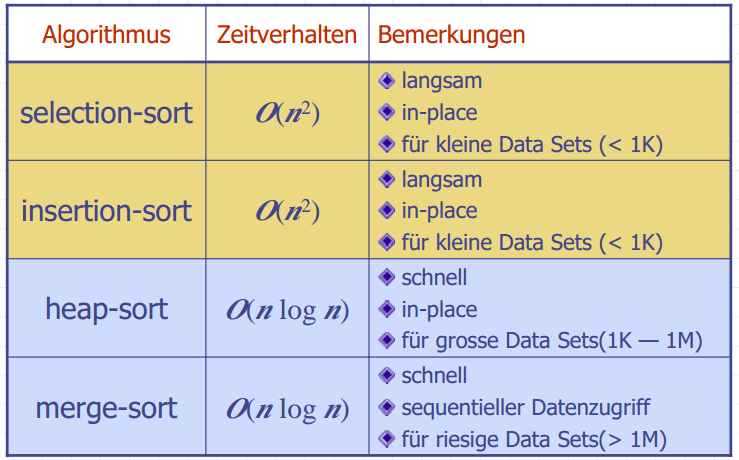
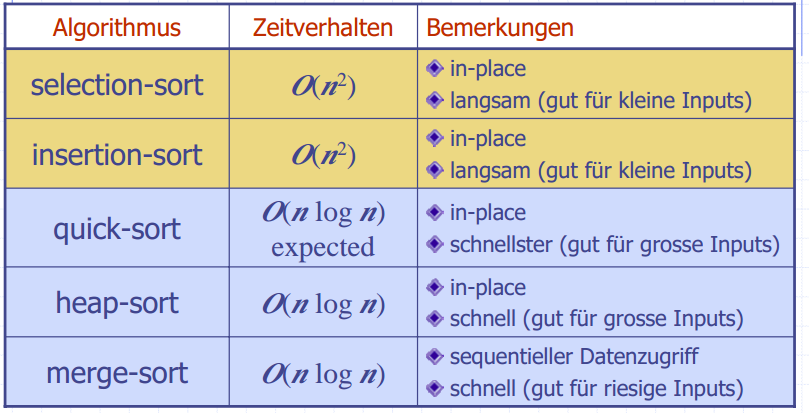
updates

diff --git a/docs/hs16/cpi.md b/docs/hs16/cpi.md
@@ -186,3 +186,75 @@ foo(g);
         - `try {...} catch (type const &e) {...}`
         - Catchen immer mit Referenz auf exception ("Throw by value, catch by const ref")
         - Catch all: `catch(...)` <- Mit 3 Punkten!
+        - In `stdexcept` sind exception types, z.B. `std::logic_error` und `std::runtime_error`
+        - Message in Konstruktor mitgeben, im catch mit `e.what()` aufrufen
+        - Testen in CUTE mit `ASSERT_THROWS(<code>, <expected exception type>)`
+```c++
+try {
+    // throwing code
+    throw <value>;
+} catch (<type> const & e) {
+    // Exception handling
+}
+```
+
+---
+## Vorlesung 5 - Classes and Enums
+- Eine gute Klasse hat eine Invariant, eine Garantie über den Status der Klasse
+- Klasse wird normalerweise im Header definiert mit `Class <name> {...};`
+    - Ein Verwender der Klasse muss wissen, wie der Speicher der Klasse aufgebaut ist, darum ist die Klasse mit Members im Header definiert
+    - Einzelne Sektionen `public:`, `private:`, `protected:`
+    - Bei Klassen sind funktionen implizit private, bei structs public
+- Konstruktor: `Class(value1, value2) : member{value1}, member2{value2}`
+    - In Reihenfolge der Member-Deklaration
+- Kopier-Konstruktor: Wird dann ausgeführt, wenn einer instanzierung der eigene Typ als argument mitgegeben wird: `Date d2{d1}`
+    - Ist implizit verfügbar: `Date(Date const &)`
+- Move-Konstruktor ebenfalls implizit vorhanden
+- `explicit Date(std::string const &)`, um dem Konstruktor einen anderen Datentyp mitzugeben, um sie in den Typ zu verwandeln
+- Destruktor: `~Date();` ist implizit vorhanden, sollte selten explizit implementiert werden. Wird beim Aufräumen aufgerufen
+- Vererbung mit `class Sub : public Base {...};` angeben
+    - Folie 19: onyInBase ist private
+    - Wenn `private` geerbt wird, kann man in Sub auf die private Member von Base zugreifen, aber nicht ausserhalb von Sub
+    - Mehrfachvererbung möglich
+- Implementierung: Jeweils `<type>::<function> {...}`
+- Statische Funktionen aufrufen mit `type::function`
+- `const` Funktionen können keine Klassen-Felder verändern
+- Im Konstruktor prüfen, ob die Daten (z.B. das Datum) gültig ist
+    - Establishes invariant
+- Konstruktoren delegieren: `Date::Date() : Date{1980, 1, 1}` wie `this()` in Java
+- member-Funktionen darf invarianz nicht kaputt machen
+- Expliziter Zugriff auf Felder mit `this-><member>`
+- Static Functions brauchen keine static-Deklartion in der Implementierung
+    - Können nicht `const` sein
+- `static const`-Felder können direkt im Header initialisiert werden
+- Operator-Overloading
+    - `<returntype> operator<op> (<parameters>)`
+    - Ein Parameter für unäre Operatoren, zwei für binäre
+    - Ausnahme: inkrement, dekrement prefix nimmt zwei parameter, um prefix und suffix zu unterscheiden
+    - Wenn overloading im header-File implementiert wird, mit `inline` deklarieren
+    - Problem mit "free" Operator (ausserhalb der Klasse): Kein Zugriff auf private Members
+    - Alternative: Operator Overloading als Member in die Klasse hinein nehmen. Nur noch 1 Parameter für right-hand-side (linke Seite ist this-Objekt). Ist implizit `inline`
+    - `std::tie()` vergleicht komponentenweise zwei Elemente
+```c++
+bool Date::operator<(Date const & rhs) const {
+    return std::tie(year, month, day) <
+    std::tie(rhs.year, rhs.month, rhs.day);
+}
+```
+    - Mit boost kann man z.B. `<` implementieren, und bekommt dann `>, <= und >=` (Erben von `boost::less_than_comparable<myType>`)
+    - `<<` überschreiben für Ausgabe
+        - Problem: in Member-Funktion ist das linke Argument vorgegeben mit `this`, dann müsste der Stream rechts von `<<` sein
+        - Lösung: Hilfsfunktion `print()` in der Klasse, die von freier Funktion aufgerufen wird
+```c++
+class Date {
+    int year, month, day;
+public:
+    std::ostream & print(std::ostream & os) const {
+        os << year << "/" << month << "/" << day;
+        return os;
+    }
+};
+inline std::ostream & operator<<(std::ostream & os, Date const & date){
+    return date.print(os);
+}
+```

diff --git a/docs/hs16/ad2.md b/docs/hs16/ad2.md
@@ -129,7 +129,7 @@ $$\rightarrow h \in O(log(n))$$
 
 #### Performance
 - Splaying: \(O(h)\)
-    - Durchschnittlich \(O(\logn)\)
+    - Durchschnittlich \(O(logn)\)
     - Worst case ist Höhe h = n, d.h. \(O(n)\)
 - Oft besuchte Knoten kommen immer näher an die Root, d.h es wird schneller
 - Anwendung z.B. bei Suchmaschinen
@@ -166,3 +166,39 @@ $$\rightarrow h \in O(log(n))$$
     - in und out swappen
     - usw... Es wird immer verdoppelt
     - Quasi im rekurvis-Baum "Bottom up"
+
+---
+## Vorlesung 5 - Quick-Sort
+- Vergleich Insertion-Sort (\(O(n^2)\)) und Merge-Sort (\(O(n log n)): Bei \(2^{14}\) Elementen ist Merge-Sort 100x schneller, bei 1 Mio. Elementen ist es 6'400x schneller
+- Insertion Sort würde für 1 Mio. Elemente ca. 1h 47' benötigen, merge-Sort nur einige Sekunden
+
+### Quick-Sort
+- Partitionierung in 3 Mengen: Less, Equal und Greater mit einem Pivot x
+    - Jedes Element in die richtige Menge kopieren -> \(O(n)\)
+- Rekursiver Aufruf mit L und G
+- Zusammensetzen: L, E, G hintereinander wieder einfügen
+
+![Vergleich Sortieralgorithmen](img/quicksort_tree.png)
+
+- Wenn der Pivot immer das minimum oder maximum ist, gibt es einen einseitigen "tree", d.h Worst-Case ist \(O(n^2)\)
+- Der optimale Pivot wäre der mittlere Wert
+- Wenn die Daten normalverteilt sind, gibt es zu 50% "bad-calls" bei zufälliger Wahl des Pivots (1. und 4. Viertel)
+- Erwartet wird ein Baum mit Höhe \(log n\). Jedes Level benötigt \(O(n)\), also total \(O(n log n)\)
+- In-Place Quicksort
+    - Worst-Case: Wenn die Liste bereits sortiert ist
+
+### Sorting Lower Bound
+- Jede Permutation von Daten zeigt einen Pfad durch den Entscheidungsbaum
+- Das gibt n! Permutationen, also ist die Höhe des Baumes log(n!)
+$$n^n > n! > {\frac n2}^{\frac n2}$$
+- Die Untere Grenze für *Vergleichs*algorithmen ist \(O(n log(n))\)
+
+### Bucket-Sort
+- Eine Sequenz mit Key-Value-Paaren
+- Jedes Item in ein Array mit dem Key als Index kopieren
+    - Genauer ein Array von Listen, Elemente mit gleichem Key werden der Liste angehängt
+- Array durch iterieren und der Reihe nach ausgeben
+- Laufzeit: \(O(n + N)\), wobei N der grösstmögliche Wert der Keys ist
+    - Kein Widerspruch zu oben, weil Algorithmus nicht vergleichs-basiert ist
+- Eingeschränkt auf ganze, positive Zahlen
+- *Stabile* Sort-Eigenschaft: die relative Ordnung von Items mit gleichem Wert wird nicht verändert

diff --git a/docs/hs16/mste.md b/docs/hs16/mste.md
@@ -164,3 +164,47 @@ protected virtual void Dispose(bool disposing)
     }
 ```
     - So werden managed ressourcen von Dispose() aufgerufen, und unmanaged vom Finalize / Destruktor
+
+
+---
+## Vorlesung 5 - Delegates & Events
+### Delegates
+- Typsichere function-Pointer
+- Rerence-Type, um Methoden als Parameter zu übergeben
+- Delegate kann 0 bis n Methoden beinhalten
+- Definition eines Delegates ist die Deklaration eines neuen Reference-Types (normalerweise ausserhalb von Klassen definieren!)
+- Initialisieren mit `new <delegate-name>(<method-name>)`
+    - Kurzform: Direkt Methode zuweisen: `<var> = <method-name>`
+- Delegate-Instanz kann ausgeführt werden mit `()`
+- Signatur von Methoden wird in Delegate-Definition festgelegt
+- Jede Methode mit richtiger Signatur kann zu Delegate zugewiesen werden
+- Methode kann instanzbezogen sein: `obj.Method`, `obj` ist eine Instanz
+- Es sollte vor dem Aufruf geprüft werden, ob das Delegate != null ist
+    - Ab C# 6.0 `delegateVar?.Invoke(params)`
+
+#### Multicast-Delegates
+- Jedem Delegate können mehrere Methoden hinterlegt werden
+- Zuweisung mit `+=` und `-=`
+- Beim Ausführen werden die Methoden sequentiell ausgeführt
+- Im Hintergrund baut der compiler eine Klasse, die von `MulticastDelegate` erbt
+- Wenn mehrere Delegate-Methoden einen Rückgabewert geben, wird der letzte genommen
+- Anwendung z.B. bei `List.Sort(Comparison<T>)`
+
+### Events
+- Compiler-Feature für Delegates
+- Bei Instanzierung von Delegate `public event <Delegate> <var>` verwenden
+- Delegate wird intern private deklariert
+- generiert Methoden für Subscribe und Unsubscribe
+- Observers anmelden mit += und -=
+- Verhält sich gleich, als ob man einfach das Delegate-Feld in der Klasse public macht, aber von aussen kann das Delegate nicht ausgeführt werden (wäre sehr schlecht)
+- Best Practice:
+    - `public delegate void AnyHandler(object sender, AnyEventArgs e);`
+    - `AnyEventArgs` ist eine Subklasse von `EventArgs`
+    - Grund: Wenn z.B. Library erweitert wird, ändert sich Delegate-Signatur nicht, es wird nur die EventArgs-Klasse erweitert. Der Client-Code funktioniert weiterhin
+
+### Anonyme Methoden
+```cs
+list.ForEach(delegate(int i)
+    { Console.WriteLine(i); }
+);
+```

diff --git a/docs/hs16/wed2.md b/docs/hs16/wed2.md
@@ -45,3 +45,36 @@
     - Übergänge zu anderen States werden in Antwort mitgeschickt (in Form von URIs)
     - Aufgrund der Antwort kann der Client dann schliessen, wie er weiter machen muss (z.B. continue, cancel) und den entsprechenden Links folgen
     - URI kann serverseitig geändert werden
+
+---
+## Vorlesung 5 - Flexibles Layout
+- Flexibles Layout: Seite passt sich Geräte-Grösse an, z.B. fliesst der Text automatisch
+- Responsive Design: Auf unterschiedlichen Grössen werden verschiedene layouts eingesetzt (mit bestimmten Break-Points)
+- `content-box`: Höhe und Breite bezieht sich nur auf den content
+- `border-box`: Höhe und Breite bezieht sich auf content + padding + border
+- `overflow`: Verhalten, wenn der Text zu viel Platz für die Box beansprucht ("overflowed")
+    - Default `visible`: Text fliesst über Box hinaus
+    - `hidden`: überfliessender Text wird abgeschnitten
+    - `scroll`: Scroll-Balken anzeigen
+- position `absolute`: Position ist relativ zum ersten Parent (das `relative` oder `absolute` ist, spätestens body)
+- position `fixed`: Feste Position auf dem Screen
+- Bei beiden `top`, `left`, `bottom`, `right` für die Abstände
+- default ist `position: static`
+- Kombination: Einige Elemente absolute positionieren, und dann z.B. Elemente im Flow lassen, aber die margin entsprechend vergrössern
+- `inline-block`: Ein Block mit margin / padding, width / height, der Inline dargestellt wird
+    - Anordnung zu anderen Blocks in gleicher Zeile mit `vertical-align`
+
+### Flexbox
+<https://css-tricks.com/snippets/css/a-guide-to-flexbox/>
+
+- Definiert mit `display: flex` bzw. `inline-flex`
+- Alle Blocks innerhalb einer Flexbox sind "inline blocks"
+- `flex-direction`: `column` für Elemente untereinander, `row` für Elemente in einer Zeile
+- `flex: <flex-grow> <flex-shrink> <flex-basis>`
+    - grow, shrink: Faktor, wie die Box verkleinert / vergrössert werden kann
+- `flex: 0 0 50px` heisst eine fixe Grösse von 50px
+- `justify-content`
+    - `flex-start`: An start positionieren (links bzw. oben)
+    - `space-between`: Gleicher Abstand zwischen Elementen
+    - `space-around`: Gleicher Abstand um Elemente herum
+- 

diff --git a/docs/hs16/se1.md b/docs/hs16/se1.md
@@ -48,3 +48,29 @@
 - Use-Case ist *textuelle* Beschreibung "Actor tut das, dann macht das System ..."
 - Geschichte aus Benutzersicht
 - Aktor kann auch externes System sein (als Box dargestellt)
+
+---
+## Vorlesung 5 - NF, SRS, Modelling Behaviour
+- Nichtfunktionale Anforderungen sind Qualitätmerkmale, Randbedingungen, Leistung, Mengen, ...
+- Geht oft vergessen, weil die Anforderung aus Kundensicht angesehen werden muss
+- Sind oft auch implizit / unbewusst
+- "Other Requirements" können solche sein, die in vielen UCs vorkommen bzw. sehr allgemein sind
+
+### Modelling Behaviour
+- Sind formale Beschreibungen (können auch maschineninterpretiert werden)
+#### Zustandsdiagramme
+- Kreis zeigt Initial State
+- Boxen sind Zustände
+    - Name ist Adjektiv
+    - Kann entry und exit-Acitivites haben
+    - do-Acitivty läuft, solange System im Zustand ist
+    - Kann auch interne Events / Übergänge haben (wiee ein Loop zu sich selbst)
+- Übergänge mit angeschriebenen Pfeilen ("Events")
+    - `event [guard] / activity`
+    - `guard` ist Bedingung (precondition)
+    - `activity` wird ausgeführt
+    - Werden "augenblicklich" ausgeführt
+- Endzustand eingerahmter Kreis (à la DEA)
+- Zustände können verschachtelt werden, dass ein einzelner Zustand wieder ein kompletter Ablauf darstellt
+- In einem nested State kann von jedem Zustand aus der nested State verlassen werden (in Folie 15 kann aus jedem Zustand "on hook" ausgelöst werden)
+#### Activity-Diagramme

diff --git a/docs/hs16/mge.md b/docs/hs16/mge.md
@@ -3,6 +3,8 @@
 ## Prüfung
 - Pro Teil 1h
 - Pro Teil 10 A4-Seiten Zusammenfassung
+- Teil Android
+    - Kein XML selber schreiben, aber lesen können
 
 ## Vorlesung 1 - Einführung Android
 - Miniprojekt Abgabe Woche 7 und Woche 14
@@ -252,3 +254,10 @@ class DownloadBitmapTask extends AsyncTask<String, Void, Bitmap> {
 
 new DownloadBitmapTask().execute("http://slow.hsr.ch/hsr_cat.bmp");
 ```
+
+---
+## Vorlesung 5 - Material Design
+- Material Design styleguide: <https://material.google.com/>
+- Alle Elemente sollten auf einem Grid von 8dp angeordnet werden
+    - -> Abstand immer Vielfaches von 8
+- Farbkombinationen: <https://material.google.com/style/color.html#color-color-palette>
